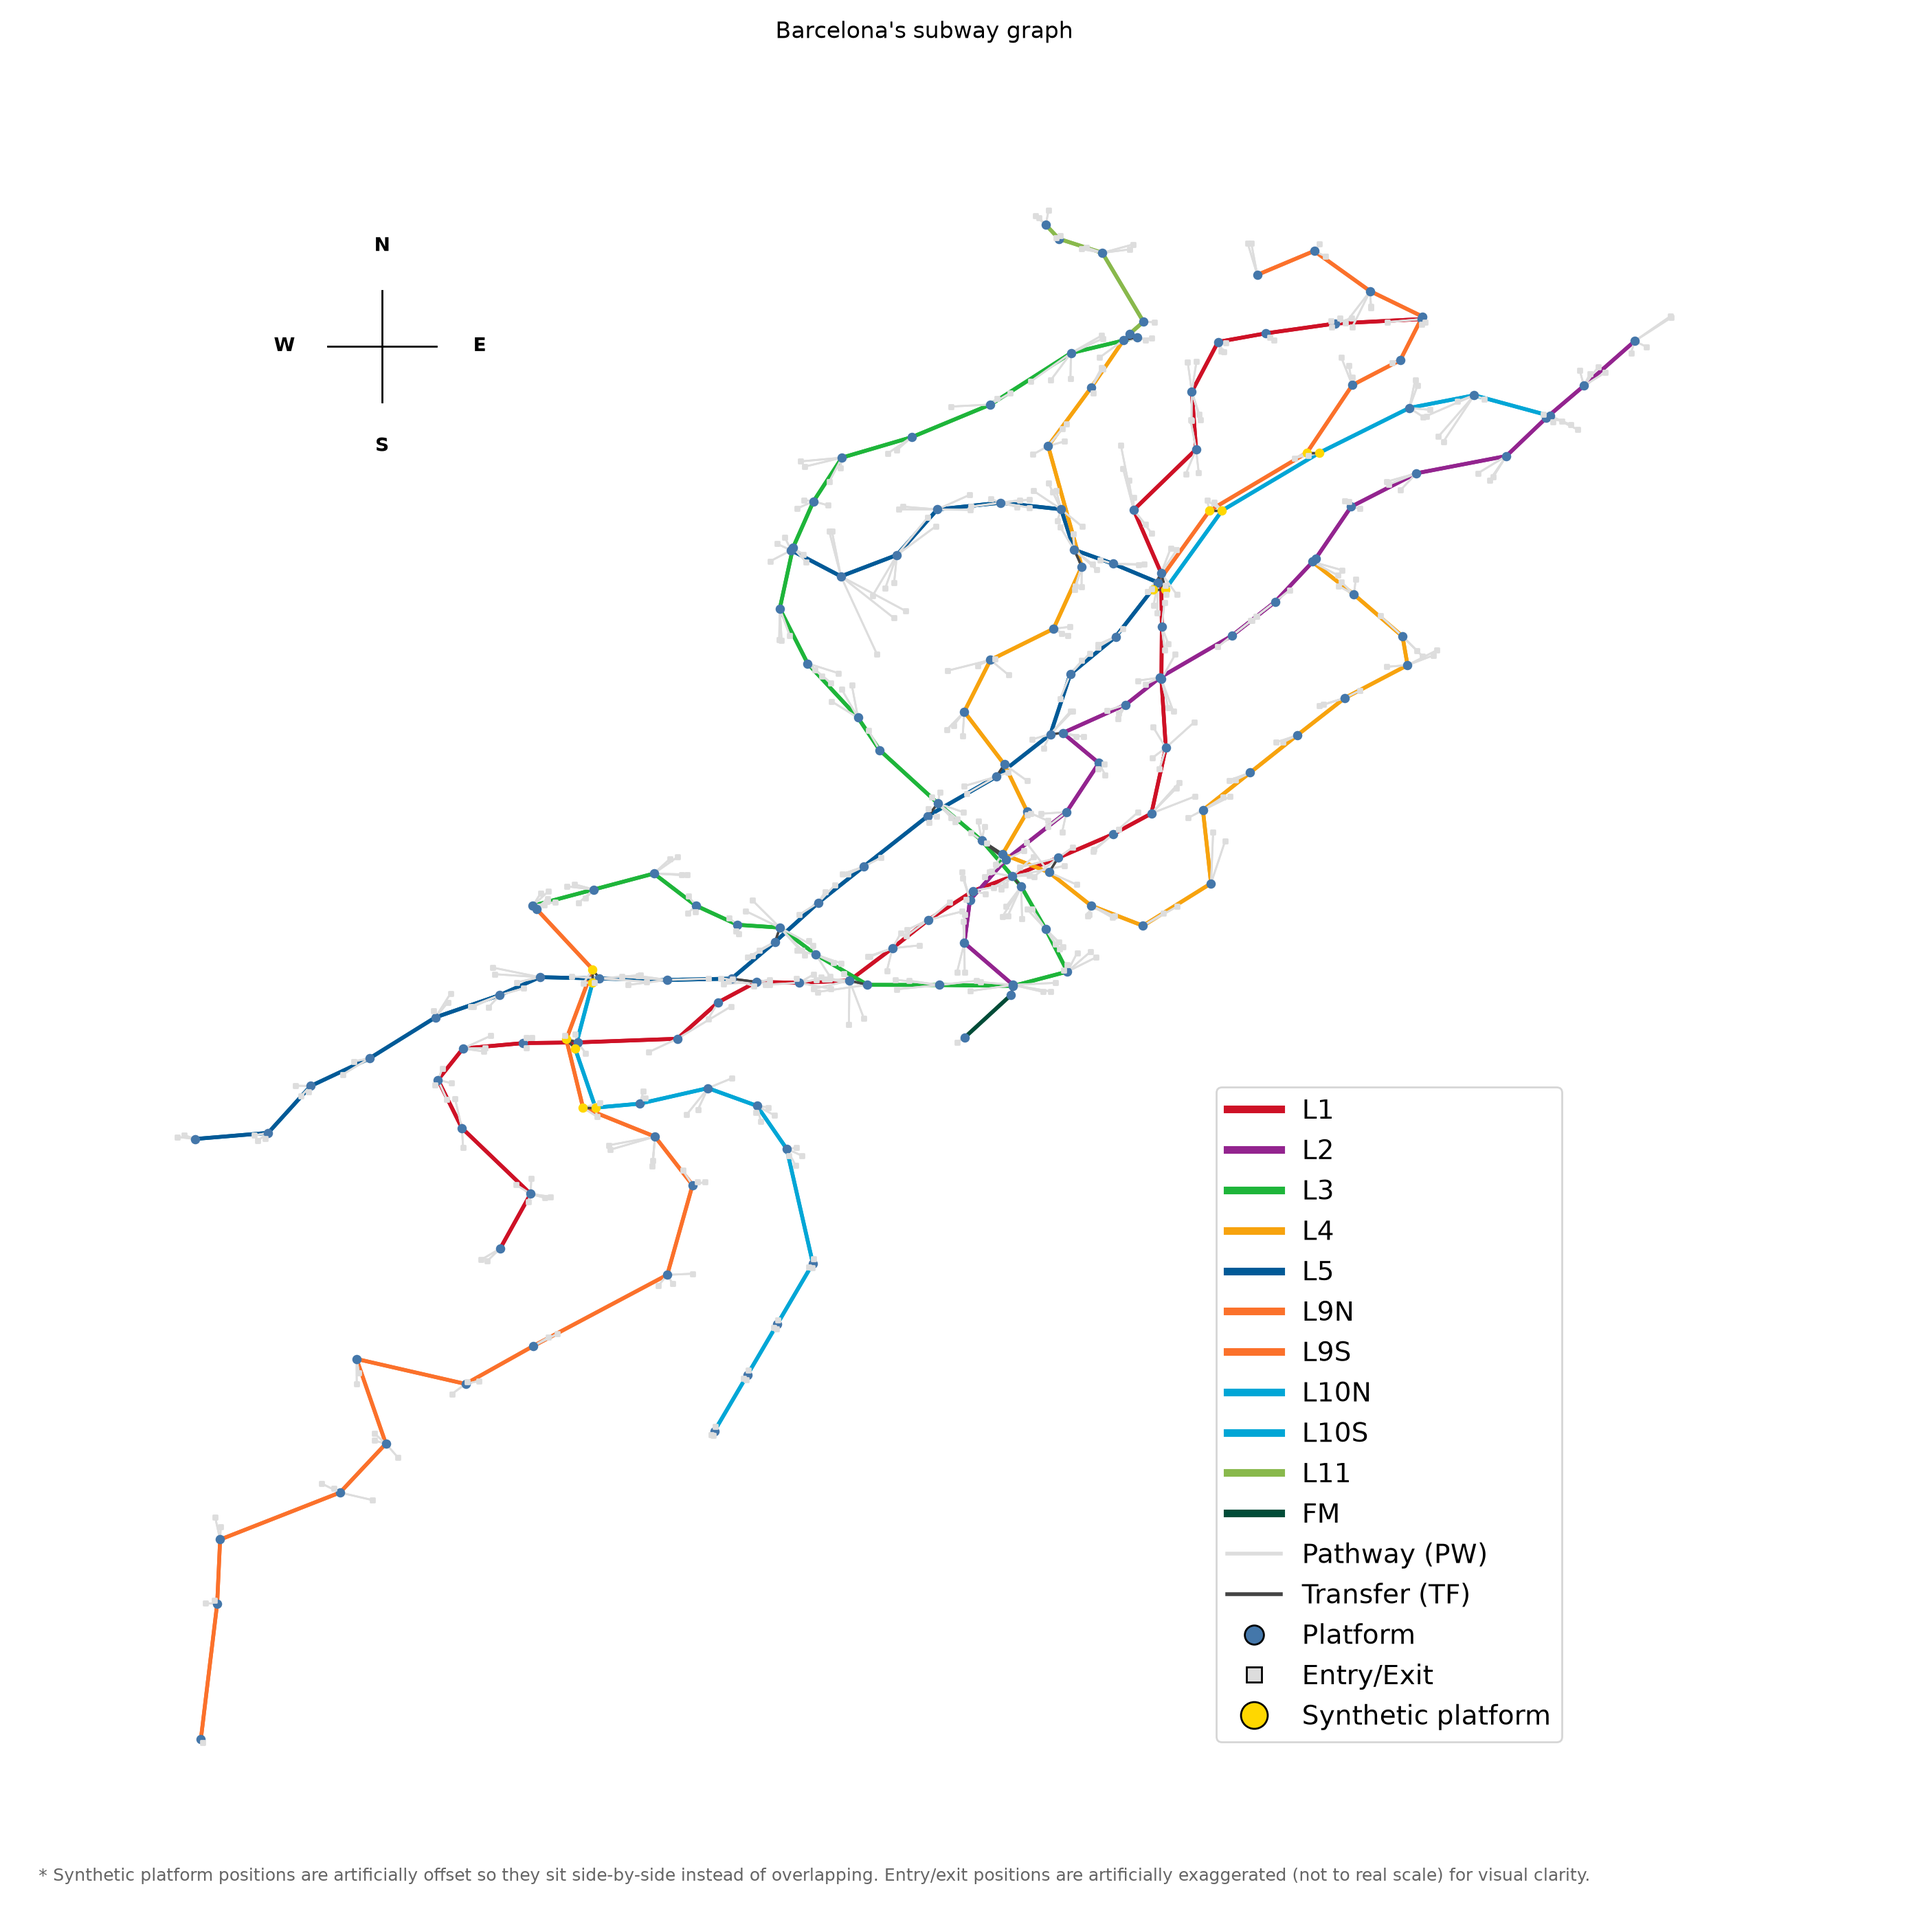
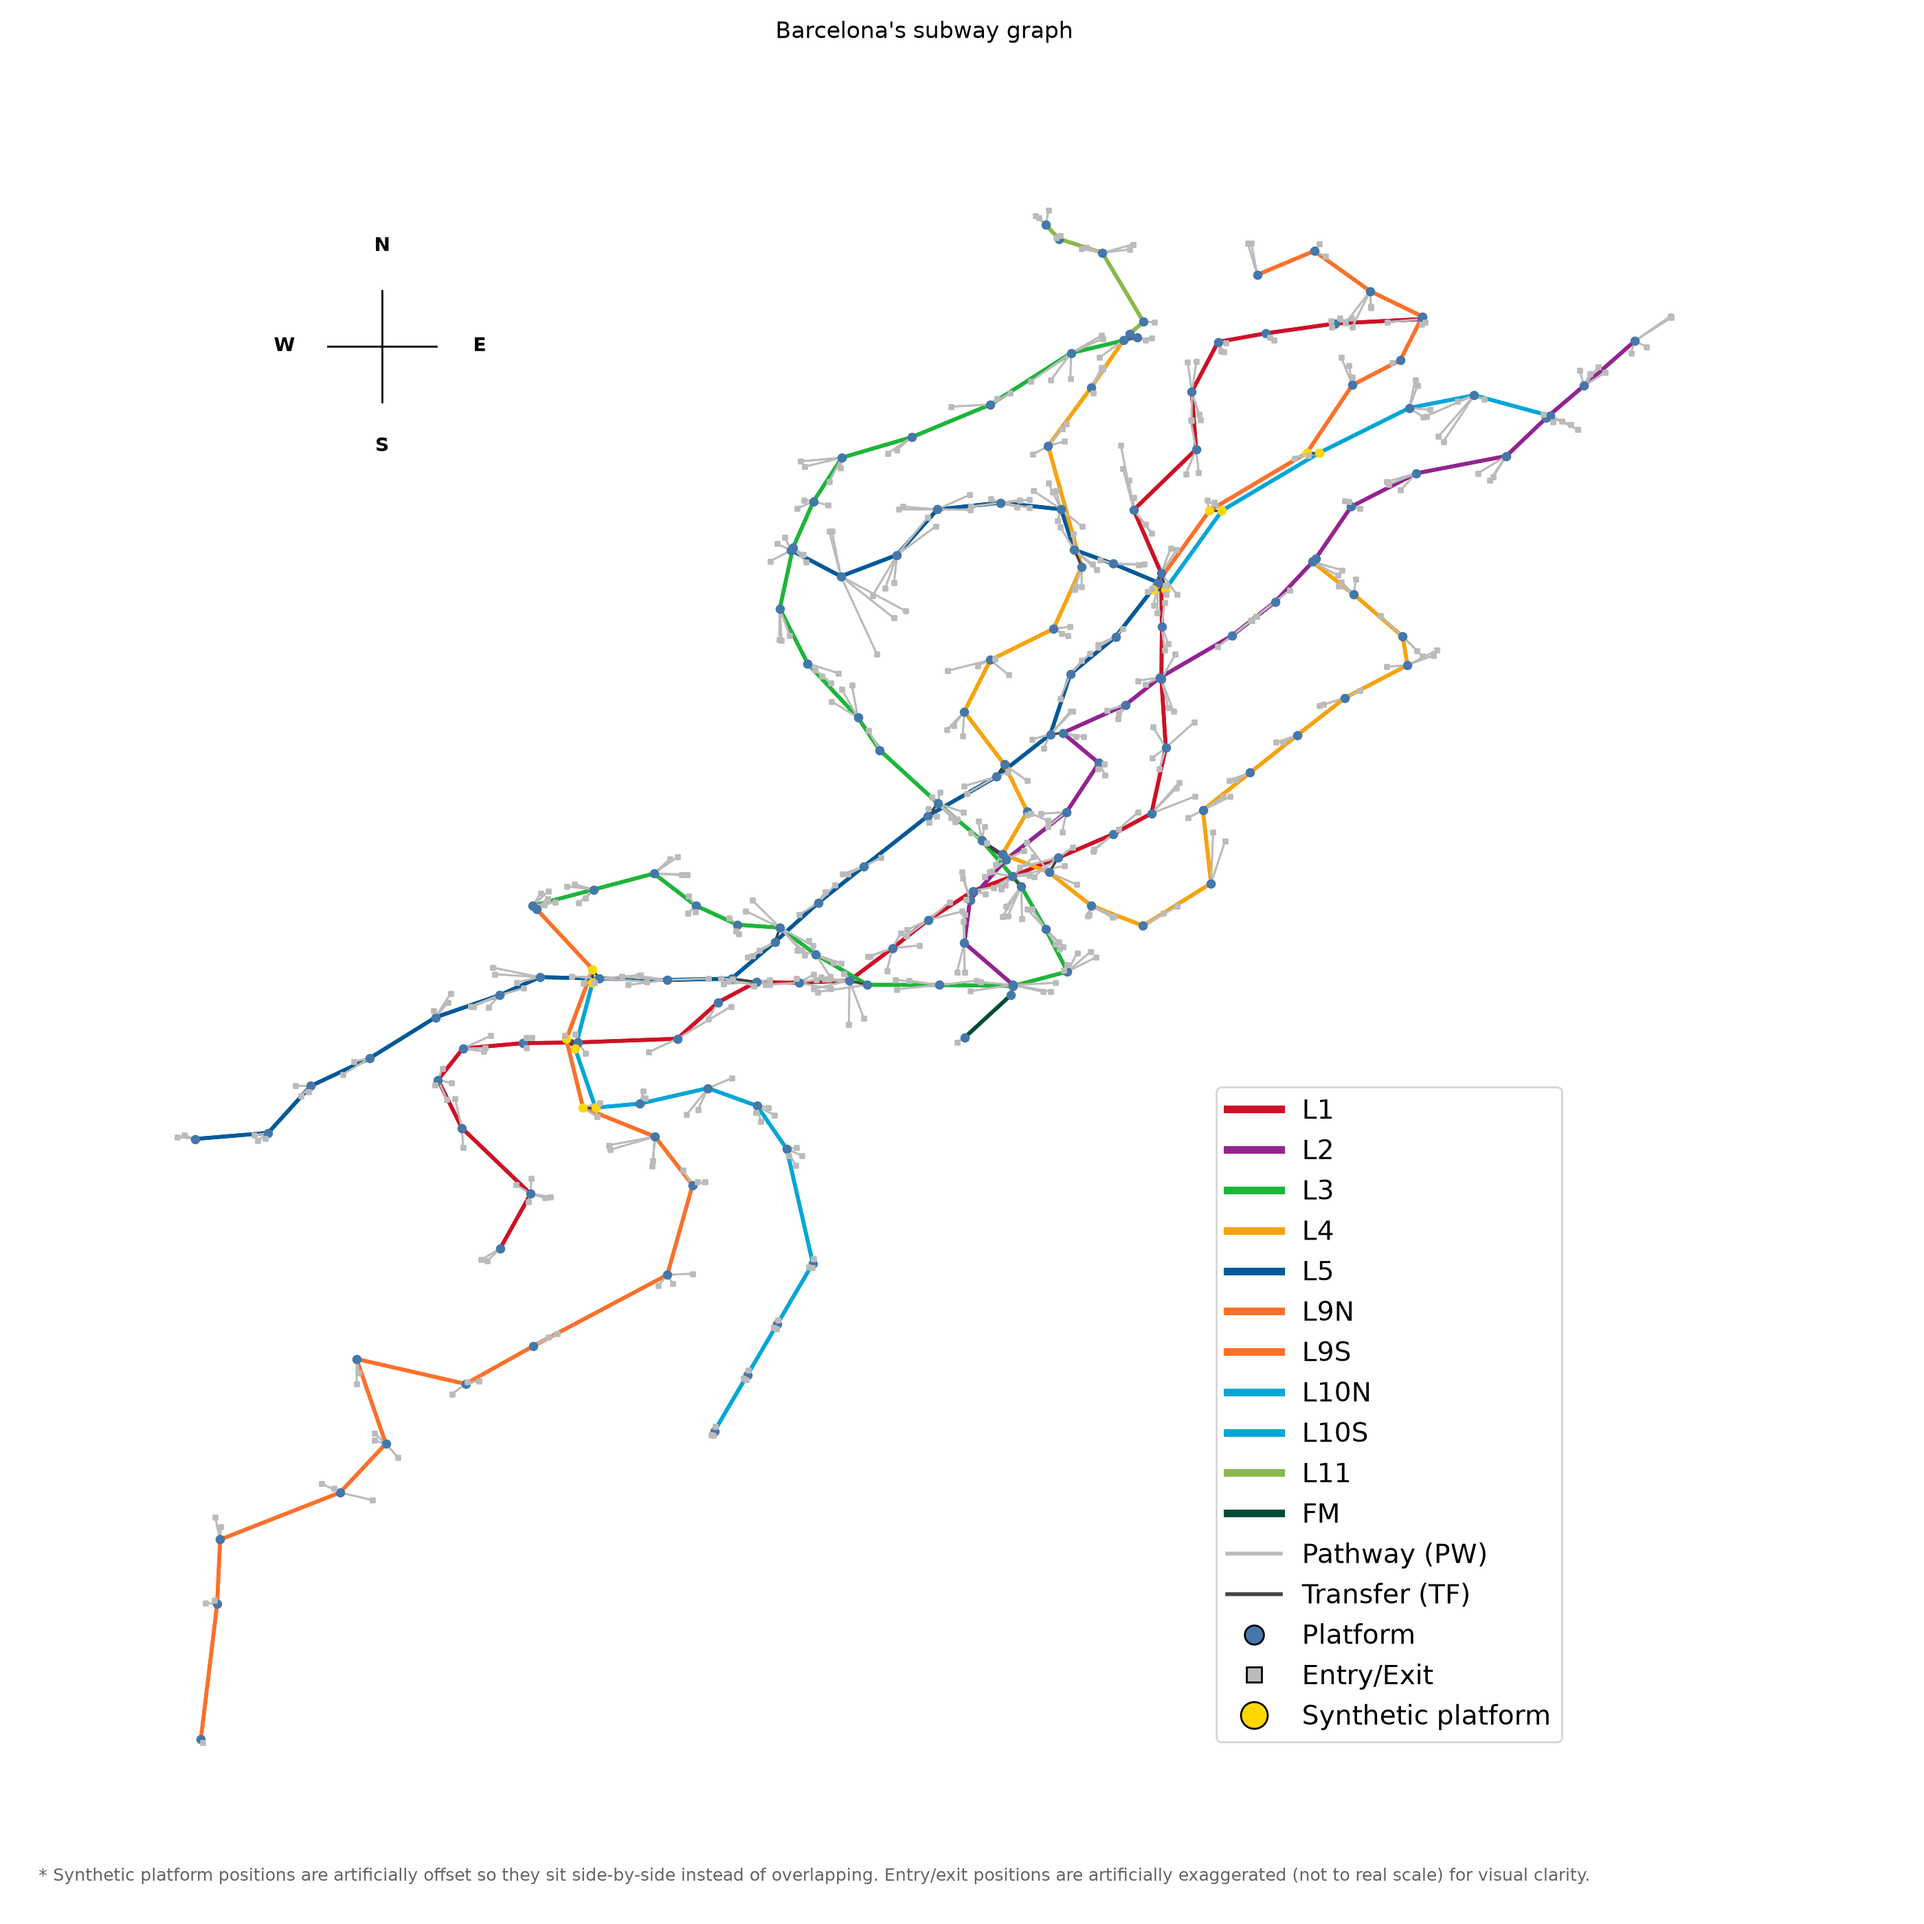
feat(analysis): paint entries by region in regions_graph.py
- regions_graph.py: color entry/exit nodes by their connected platform's
  region too (new entry_node_color), instead of leaving them a flat neutral
  color, so the whole graph (platforms, entries, and edges) reads
  consistently by Center/Branch region
- graph_draw/graph.py: darken PW_EDGE_COLOR slightly for better contrast
  against the now-colored entries
- regenerate barcelona_regions_graph.png and graph.png

diff --git a/shortest_paths_algorithms/analysis/regions_graph.py b/shortest_paths_algorithms/analysis/regions_graph.py
@@ -4,8 +4,8 @@ the single bridge platform that reconnects each branch to the rest of the networ
 Reuses graph_inspection/graph_draw/graph.py's graph loading (GTFS-derived edges,
 weights, and the jittered synthetic-platform/entry positions) and recolors it
 against shortest_paths_algorithms/barcelona_division.py's Center/Branches partition
-instead of by subway line: every platform, and every SW/TF/PW edge touching it, is
-painted in its region's color -- except the edge connecting a branch's
+instead of by subway line: every platform, every entry/exit, and every SW/TF/PW edge
+touching it, is painted in its region's color -- except the edge connecting a branch's
 outermost platform to its bridge, which takes the branch's color (it's still part
 of the branch, structurally), and the bridge platform itself, which is highlighted
 in yellow, a color reserved from the region palette so it never doubles as a
@@ -23,10 +23,7 @@ _PROJECT_ROOT = str(Path(__file__).resolve().parents[2])
 if _PROJECT_ROOT not in sys.path:
     sys.path.insert(0, _PROJECT_ROOT)
 
-from graph_inspection.graph_draw.graph import (  # noqa: E402
-    ENTRY_NODE_COLOR,
-    load_graph,
-)
+from graph_inspection.graph_draw.graph import load_graph  # noqa: E402
 from shortest_paths_algorithms.barcelona_division import (  # noqa: E402
     Bridges,
     NODE_TO_BRANCH,
@@ -101,6 +98,25 @@ def pw_edge_color(u: str, v: str) -> str:
     return REGION_COLORS[node_region(platform)]
 
 
+def entry_node_color(entry_id: str, graph: nx.DiGraph) -> str:
+    """Color an entry node the same as its PW edge -- its connected platform's region color.
+
+    args:
+        entry_id: Entry/exit stop_id ("E." prefix).
+        graph: Graph containing the entry's PW edge(s) to its platform(s).
+
+    returns:
+        A value from REGION_COLORS.
+    """
+    platform = next(
+        neighbor
+        for neighbor in set(graph.predecessors(entry_id))
+        | set(graph.successors(entry_id))
+        if str(neighbor).startswith("1.")
+    )
+    return REGION_COLORS[node_region(platform)]
+
+
 def node_color(stop_id: str) -> str:
     """Color a platform node: yellow if it's a bridge, else its region's color.
 
@@ -155,15 +171,6 @@ def draw_regions_graph(
             markersize=10,
             label="Bridge vertices",
         ),
-        plt.Line2D(
-            [0],
-            [0],
-            marker="s",
-            color="none",
-            markerfacecolor=ENTRY_NODE_COLOR,
-            markersize=8,
-            label="Entry/Exit",
-        ),
     ]
 
     edge_color_fn_by_type = {
@@ -206,7 +213,7 @@ def draw_regions_graph(
         nodelist=entry_nodes,
         node_shape="s",
         node_size=6,
-        node_color=ENTRY_NODE_COLOR,
+        node_color=[entry_node_color(n, graph) for n in entry_nodes],
         ax=ax,
     )
     nx.draw_networkx_nodes(

diff --git a/graph_inspection/graph_draw/graph.py b/graph_inspection/graph_draw/graph.py
@@ -50,7 +50,7 @@ EDGE_TYPE_LABELS = {
     "TF": "Transfer (TF)",
 }
 NON_LINE_EDGE_COLOR = "#444444"
-PW_EDGE_COLOR = "#dddddd"
+PW_EDGE_COLOR = "#bbbbbb"
 EDGE_COLOR_BY_TYPE = {
     "PW": PW_EDGE_COLOR,
     "TF": NON_LINE_EDGE_COLOR,
